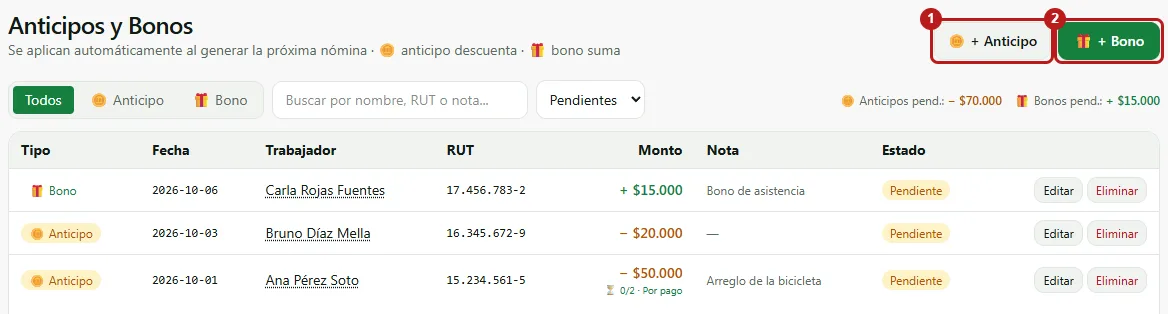
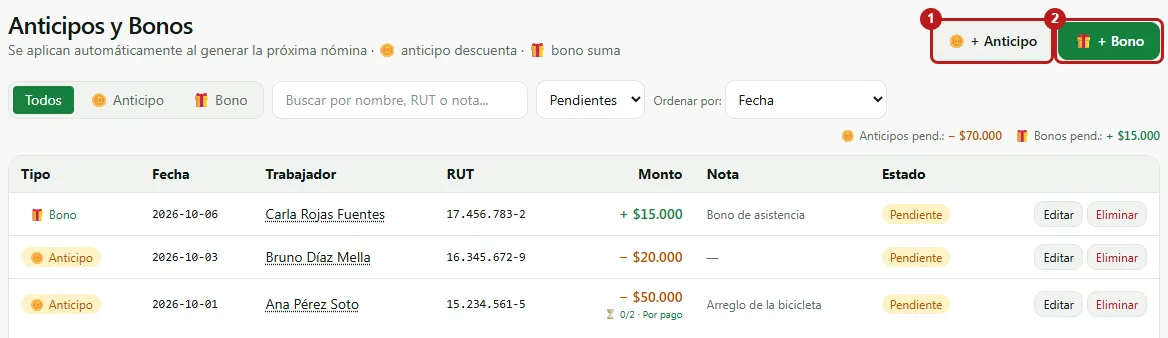
advancesSortGuide

diff --git a/src/screens/help/guides.test.js b/src/screens/help/guides.test.js
@@ -80,6 +80,8 @@ describe("preguntas típicas", () => {
     ["agregar otro ciclo a la nómina", "corregir-nomina#agregar-o-sacar-ciclos-y-labores"],
     ["cambiar los ciclos de la nómina", "corregir-nomina#agregar-o-sacar-ciclos-y-labores"],
     ["cómo anoto un anticipo", "anticipos-y-bonos#anotar-un-anticipo"],
+    ["cómo ordeno los anticipos", "anticipos-y-bonos#ordenar-la-lista"],
+    ["los anticipos del mismo día salen mezclados", "anticipos-y-bonos#ordenar-la-lista"],
     ["descontar el anticipo en cuotas", "anticipos-y-bonos#descontar-un-anticipo-en-cuotas"],
     ["qué significa parcial", "anticipos-y-bonos#despues-de-la-nomina"],
     ["el anticipo es más grande que lo que gana", "anticipos-y-bonos#como-los-aplica-la-nomina"],

diff --git a/src/screens/help/guides/anticipos-y-bonos.md b/src/screens/help/guides/anticipos-y-bonos.md
@@ -12,6 +12,16 @@ Un **anticipo** es plata que se le pasa a alguien por adelantado y que se le des
 - Un anticipo en cuotas muestra cuántas lleva (por ejemplo, **0/2 · Por pago**).
 - El nombre de la persona abre todos sus anticipos y bonos.
 
+## Ordenar la lista
+<!-- preguntas: cómo ordeno los anticipos; ver los últimos anticipos que anoté; los anticipos del mismo día salen mezclados; ordenar por fecha; ordenar por última modificación -->
+
+Con **Ordenar por**, al lado del estado, se elige el orden de la lista:
+
+- **Fecha**: por la fecha del anticipo o bono, la más nueva primero. Los del mismo día salen según su última modificación: arriba, el último que se anotó o se editó.
+- **Última modificación**: lo último que se anotó o se editó va primero, sea cual sea su fecha. Sirve para revisar lo que se acaba de anotar.
+
+TeRRa recuerda el orden elegido en ese navegador. Que una nómina descuente un anticipo no lo mueve de lugar.
+
 ## Anotar un anticipo
 <!-- preguntas: cómo anoto un anticipo; dar un adelanto; prestar plata a un trabajador; registrar un anticipo -->
 
